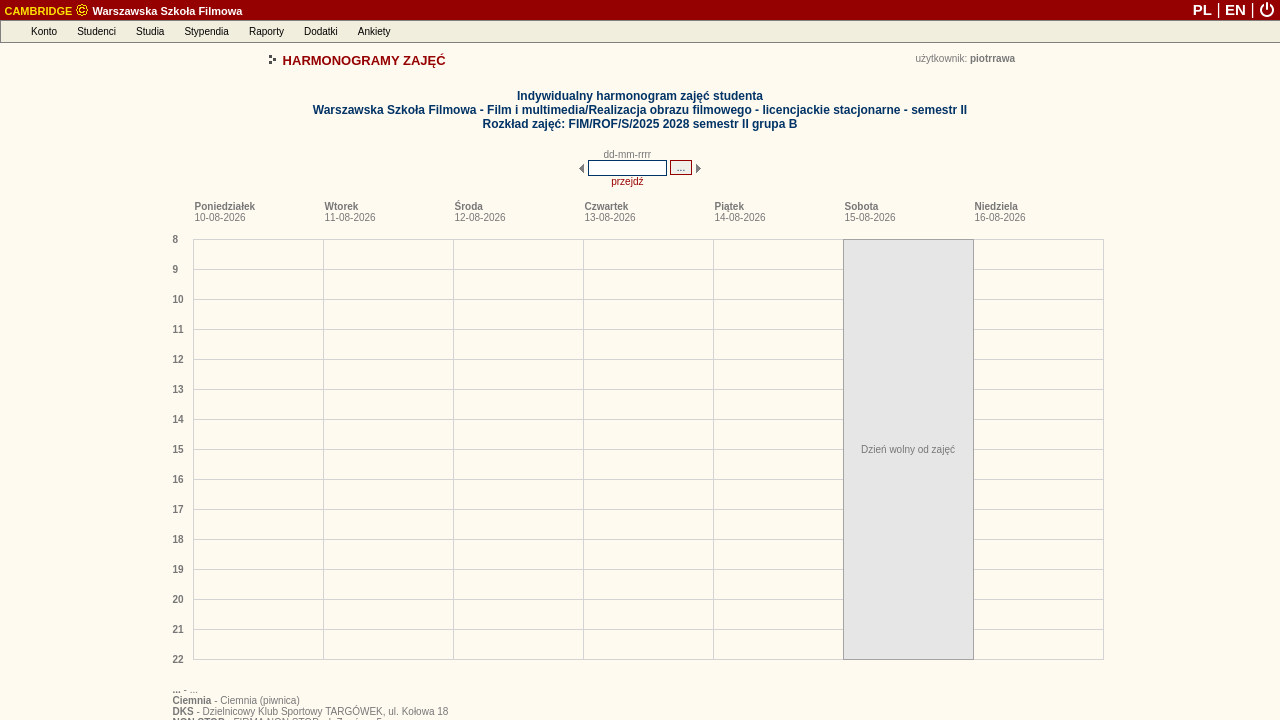
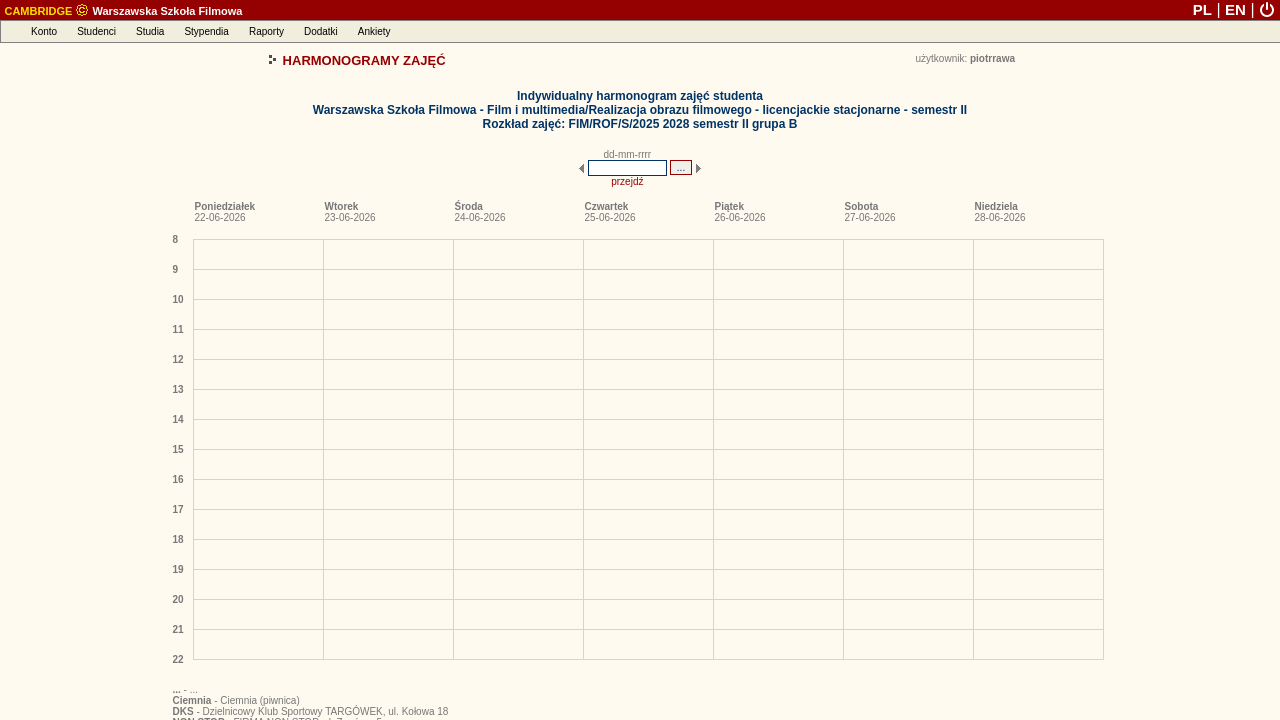
deploy: dfa69d0f82312febb651d8b8e029982c1f68af8a

Changed region(s): [[0.6562, 0.3056, 0.7812, 0.9167]]

diff --git a/debug_harmonogram_page.html b/debug_harmonogram_page.html
@@ -163,8 +163,8 @@
 
 
 
-<link rel="stylesheet" type="text/css" href="/palio/html.run?_Instance=cambridge&amp;_PageID=4&amp;_SessionID=1701767&amp;_SessionKey=920320297&amp;ZoomView=&amp;DisplayMode=&amp;_CheckSum=-103388781">
-<script language="javascript" type="text/javascript" src="/palio/html.run?_Instance=cambridge&amp;_PageID=5&amp;_SessionID=1701767&amp;_SessionKey=920320297&amp;_CheckSum=949591799"></script>
+<link rel="stylesheet" type="text/css" href="/palio/html.run?_Instance=cambridge&amp;_PageID=4&amp;_SessionID=1701815&amp;_SessionKey=1373786062&amp;ZoomView=&amp;DisplayMode=&amp;_CheckSum=1950590704">
+<script language="javascript" type="text/javascript" src="/palio/html.run?_Instance=cambridge&amp;_PageID=5&amp;_SessionID=1701815&amp;_SessionKey=1373786062&amp;_CheckSum=1394534232"></script>
 
 
 
@@ -354,9 +354,9 @@ CambridgeMenuBar = new jsDOMenuBar("absolute", true)
 
 AccountMenu=new jsDOMenu(200, "", "absolute", false);
 
-AccountMenu.addMenuItem(new menuItem("Zmiana hasła", "", "/palio/html.run?_Instance=cambridge&amp;_PageID=11&amp;_SessionID=1701767&amp;_SessionKey=920320297&amp;_CheckSum=-647523482"));
+AccountMenu.addMenuItem(new menuItem("Zmiana hasła", "", "/palio/html.run?_Instance=cambridge&amp;_PageID=11&amp;_SessionID=1701815&amp;_SessionKey=1373786062&amp;_CheckSum=-871399223"));
 
-  AccountMenu.addMenuItem(new menuItem("Komunikator", "", "/palio/html.run?_Instance=cambridge&amp;_PageID=180&amp;_SessionID=1701767&amp;_SessionKey=920320297&amp;_CheckSum=989078059"));
+  AccountMenu.addMenuItem(new menuItem("Komunikator", "", "/palio/html.run?_Instance=cambridge&amp;_PageID=180&amp;_SessionID=1701815&amp;_SessionKey=1373786062&amp;_CheckSum=-1676359004"));
 
 
 
@@ -369,7 +369,7 @@ AccountMenu.addMenuItem(new menuItem("Yammer", "", "https://www.yammer.com/onlin
 
 AccountMenu.addMenuItem(new menuItem("-"));
 
-AccountMenu.addMenuItem(new menuItem("Wylogowanie", "", "https://student.szkolafilmowa.pl/palio/html.run?_Instance=cambridge&amp;_PageID=10012&amp;_Action=Logout&amp;_SessionID=1701767&amp;_SessionKey=920320297"));
+AccountMenu.addMenuItem(new menuItem("Wylogowanie", "", "https://student.szkolafilmowa.pl/palio/html.run?_Instance=cambridge&amp;_PageID=10012&amp;_Action=Logout&amp;_SessionID=1701815&amp;_SessionKey=1373786062"));
 
 CambridgeMenuBar.addMenuBarItem(new menuBarItem("Konto", AccountMenu));
 
@@ -382,12 +382,12 @@ StudentsMenu=new jsDOMenu(320, "", "absolute", false);
 
 
 
-StudentsMenu.addMenuItem(new menuItem("Moje dane", "", "/palio/html.run?_Instance=cambridge&amp;_PageID=185&amp;_SessionID=1701767&amp;_SessionKey=920320297&amp;_CheckSum=-153596112"));
+StudentsMenu.addMenuItem(new menuItem("Moje dane", "", "/palio/html.run?_Instance=cambridge&amp;_PageID=185&amp;_SessionID=1701815&amp;_SessionKey=1373786062&amp;_CheckSum=1555447359"));
 
 
 
 
-StudentsMenu.addMenuItem(new menuItem("Moje indeksy", "", "/palio/html.run?_Instance=cambridge&amp;_PageID=186&amp;_SessionID=1701767&amp;_SessionKey=920320297&amp;_CheckSum=476862513"));
+StudentsMenu.addMenuItem(new menuItem("Moje indeksy", "", "/palio/html.run?_Instance=cambridge&amp;_PageID=186&amp;_SessionID=1701815&amp;_SessionKey=1373786062&amp;_CheckSum=-375171746"));
 
 
 
@@ -426,7 +426,7 @@ StudiesMenu=new jsDOMenu(250, "", "absolute", false);
 
 
 
-StudiesMenu.addMenuItem(new menuItem("Moje plany studiów", "", "/palio/html.run?_Instance=cambridge&amp;_PageID=258&amp;_SessionID=1701767&amp;_SessionKey=920320297&amp;_CheckSum=-779947625"));
+StudiesMenu.addMenuItem(new menuItem("Moje plany studiów", "", "/palio/html.run?_Instance=cambridge&amp;_PageID=258&amp;_SessionID=1701815&amp;_SessionKey=1373786062&amp;_CheckSum=-681580360"));
 
 
 
@@ -434,13 +434,13 @@ StudiesMenu.addMenuItem(new menuItem("Moje plany studiów", "", "/palio/html.run
 
 
 
-StudiesMenu.addMenuItem(new menuItem("Harmonogramy zajęć", "", "/palio/html.run?_Instance=cambridge&amp;_PageID=95&amp;_SessionID=1701767&amp;_SessionKey=920320297&amp;_CheckSum=-685739934"));
+StudiesMenu.addMenuItem(new menuItem("Harmonogramy zajęć", "", "/palio/html.run?_Instance=cambridge&amp;_PageID=95&amp;_SessionID=1701815&amp;_SessionKey=1373786062&amp;_CheckSum=-2056109235"));
 
-StudiesMenu.addMenuItem(new menuItem("Harmonogramy moich zajęć", "", "/palio/html.run?_Instance=cambridge&amp;_PageID=191&amp;_SessionID=1701767&amp;_SessionKey=920320297&amp;_CheckSum=-311082421"));
+StudiesMenu.addMenuItem(new menuItem("Harmonogramy moich zajęć", "", "/palio/html.run?_Instance=cambridge&amp;_PageID=191&amp;_SessionID=1701815&amp;_SessionKey=1373786062&amp;_CheckSum=968339076"));
 
-StudiesMenu.addMenuItem(new menuItem("Harmonogramy innych zajęć", "", "/palio/html.run?_Instance=cambridge&amp;_PageID=248&amp;_SessionID=1701767&amp;_SessionKey=920320297&amp;_CheckSum=1150671480"));
+StudiesMenu.addMenuItem(new menuItem("Harmonogramy innych zajęć", "", "/palio/html.run?_Instance=cambridge&amp;_PageID=248&amp;_SessionID=1701815&amp;_SessionKey=1373786062&amp;_CheckSum=-961930249"));
 
-StudiesMenu.addMenuItem(new menuItem("Harmonogramy zajętości sal", "", "/palio/html.run?_Instance=cambridge&amp;_PageID=269&amp;_SessionID=1701767&amp;_SessionKey=920320297&amp;_CheckSum=-2080108105"));
+StudiesMenu.addMenuItem(new menuItem("Harmonogramy zajętości sal", "", "/palio/html.run?_Instance=cambridge&amp;_PageID=269&amp;_SessionID=1701815&amp;_SessionKey=1373786062&amp;_CheckSum=1963117720"));
 
 
 
@@ -470,9 +470,9 @@ CambridgeMenuBar.addMenuBarItem(new menuBarItem("Studia", StudiesMenu));
 ScholarshipsMenu=new jsDOMenu(230, "", "absolute", false);
 
 
-ScholarshipsMenu.addMenuItem(new menuItem("Moje stypendia", "", "/palio/html.run?_Instance=cambridge&amp;_PageID=187&amp;_SessionID=1701767&amp;_SessionKey=920320297&amp;_CheckSum=1107321138"));
+ScholarshipsMenu.addMenuItem(new menuItem("Moje stypendia", "", "/palio/html.run?_Instance=cambridge&amp;_PageID=187&amp;_SessionID=1701815&amp;_SessionKey=1373786062&amp;_CheckSum=1989176445"));
 
-ScholarshipsMenu.addMenuItem(new menuItem("Mój numer rachunku", "", "/palio/html.run?_Instance=cambridge&amp;_PageID=380&amp;_SessionID=1701767&amp;_SessionKey=920320297&amp;_CheckSum=1549777837"));
+ScholarshipsMenu.addMenuItem(new menuItem("Mój numer rachunku", "", "/palio/html.run?_Instance=cambridge&amp;_PageID=380&amp;_SessionID=1701815&amp;_SessionKey=1373786062&amp;_CheckSum=-1474535070"));
 
 
 
@@ -482,9 +482,9 @@ ScholarshipsMenu.addMenuItem(new menuItem("Mój numer rachunku", "", "/palio/htm
 ScholarshipsMenu.addMenuItem(new menuItem("-"));
 
 
-ScholarshipsMenu.addMenuItem(new menuItem("Fundusze stypendialne", "", "/palio/html.run?_Instance=cambridge&amp;_PageID=54&amp;_SessionID=1701767&amp;_SessionKey=920320297&amp;_CheckSum=2111310565"));
+ScholarshipsMenu.addMenuItem(new menuItem("Fundusze stypendialne", "", "/palio/html.run?_Instance=cambridge&amp;_PageID=54&amp;_SessionID=1701815&amp;_SessionKey=1373786062&amp;_CheckSum=-1246889686"));
 
-ScholarshipsMenu.addMenuItem(new menuItem("Rodzaje stypendiów", "", "/palio/html.run?_Instance=cambridge&amp;_PageID=55&amp;_SessionID=1701767&amp;_SessionKey=920320297&amp;_CheckSum=-1553198106"));
+ScholarshipsMenu.addMenuItem(new menuItem("Rodzaje stypendiów", "", "/palio/html.run?_Instance=cambridge&amp;_PageID=55&amp;_SessionID=1701815&amp;_SessionKey=1373786062&amp;_CheckSum=1117458505"));
 
 
 
@@ -495,7 +495,7 @@ CambridgeMenuBar.addMenuBarItem(new menuBarItem("Stypendia", ScholarshipsMenu));
 ReportsMenu=new jsDOMenu(200, "", "absolute", false);
 
 
-ReportsMenu.addMenuItem(new menuItem("Generowanie raportów", "", "/palio/html.run?_Instance=cambridge&amp;_PageID=68&amp;_SessionID=1701767&amp;_SessionKey=920320297&amp;_CheckSum=-1592441336"));
+ReportsMenu.addMenuItem(new menuItem("Generowanie raportów", "", "/palio/html.run?_Instance=cambridge&amp;_PageID=68&amp;_SessionID=1701815&amp;_SessionKey=1373786062&amp;_CheckSum=-99081625"));
 
 
 
@@ -505,7 +505,7 @@ CambridgeMenuBar.addMenuBarItem(new menuBarItem("Raporty", ReportsMenu));
 
 AdditionalsMenu=new jsDOMenu(200, "", "absolute", false);
 
-AdditionalsMenu.addMenuItem(new menuItem("Forum internetowe", "", "/palio/html.run?_Instance=cambridge&amp;_PageID=8001&amp;_SessionID=1701767&amp;_SessionKey=920320297&amp;_CheckSum=-92406593"));
+AdditionalsMenu.addMenuItem(new menuItem("Forum internetowe", "", "/palio/html.run?_Instance=cambridge&amp;_PageID=8001&amp;_SessionID=1701815&amp;_SessionKey=1373786062&amp;_CheckSum=-842644848"));
 
 
 
@@ -539,7 +539,7 @@ PollsMenu=new jsDOMenu(225, "", "absolute", false);
 
 
 
-PollsMenu.addMenuItem(new menuItem("Wypełnianie ankiet", "", "/palio/html.run?_Instance=cambridge&amp;_PageID=227&amp;_SessionID=1701767&amp;_SessionKey=920320297&amp;_CheckSum=86483769"));
+PollsMenu.addMenuItem(new menuItem("Wypełnianie ankiet", "", "/palio/html.run?_Instance=cambridge&amp;_PageID=227&amp;_SessionID=1701815&amp;_SessionKey=1373786062&amp;_CheckSum=407989078"));
 
 
 CambridgeMenuBar.addMenuBarItem(new menuBarItem("Ankiety", PollsMenu));
@@ -576,7 +576,7 @@ CambridgeMenuBar.moveTo(0,20);
 <table width="100%" border="0" cellspacing="0" cellpadding="0" align="center">
 <tbody><tr class="top_belt">
 
-<td align="left" height="20"><b>&nbsp;<a class="belt" href="/palio/html.run?_Instance=cambridge&amp;_PageID=6&amp;_SessionID=1701767&amp;_SessionKey=920320297&amp;_CheckSum=1580050424"><span class="belt_application">CAMBRIDGE</span> <img src="/palio/html.media?_Instance=cambridge&amp;_Option=Palio&amp;_ID=51&amp;_CheckSum=684598873" width="14" height="14" border="0" style="position:relative;top:-2px;vertical-align:bottom"> Warszawska Szkoła Filmowa</a></b></td>
+<td align="left" height="20"><b>&nbsp;<a class="belt" href="/palio/html.run?_Instance=cambridge&amp;_PageID=6&amp;_SessionID=1701815&amp;_SessionKey=1373786062&amp;_CheckSum=-536084873"><span class="belt_application">CAMBRIDGE</span> <img src="/palio/html.media?_Instance=cambridge&amp;_Option=Palio&amp;_ID=51&amp;_CheckSum=684598873" width="14" height="14" border="0" style="position:relative;top:-2px;vertical-align:bottom"> Warszawska Szkoła Filmowa</a></b></td>
 <td align="right">
 
 
@@ -587,13 +587,13 @@ CambridgeMenuBar.moveTo(0,20);
 
 
 
-<a href="/palio/html.run?_Instance=cambridge&amp;_PageID=6&amp;_SessionID=1701767&amp;_SessionKey=920320297&amp;SetLanguage=pl&amp;_CheckSum=-1294734558" class="belt" style="font-size:15px;line-height:18px;text-decoration:none" title="polski"><b>PL</b></a>
+<a href="/palio/html.run?_Instance=cambridge&amp;_PageID=6&amp;_SessionID=1701815&amp;_SessionKey=1373786062&amp;SetLanguage=pl&amp;_CheckSum=-1081921981" class="belt" style="font-size:15px;line-height:18px;text-decoration:none" title="polski"><b>PL</b></a>
 <span class="belt" style="font-size:16px">|</span>
-<a href="/palio/html.run?_Instance=cambridge&amp;_PageID=6&amp;_SessionID=1701767&amp;_SessionKey=920320297&amp;SetLanguage=en&amp;_CheckSum=598048725" class="belt" style="font-size:15px;line-height:18px;text-decoration:none" title="english"><b>EN</b></a>
+<a href="/palio/html.run?_Instance=cambridge&amp;_PageID=6&amp;_SessionID=1701815&amp;_SessionKey=1373786062&amp;SetLanguage=en&amp;_CheckSum=810861302" class="belt" style="font-size:15px;line-height:18px;text-decoration:none" title="english"><b>EN</b></a>
 <span class="belt" style="font-size:16px">|</span>
 
 
-<img src="/palio/html.media?_Instance=cambridge&amp;_Option=Palio&amp;_ID=94&amp;_CheckSum=-1316787974" style="cursor:pointer;vertical-align:bottom;margin-bottom:2px;margin-right:5px" alt="Wyloguj" title="Wyloguj" onclick="if(confirm('Czy na pewno chcesz się wylogować?'))window.location='https://student.szkolafilmowa.pl/palio/html.run?_Instance=cambridge&amp;_PageID=10012&amp;_Action=Logout&amp;_SessionID=1701767&amp;_SessionKey=920320297'">
+<img src="/palio/html.media?_Instance=cambridge&amp;_Option=Palio&amp;_ID=94&amp;_CheckSum=-1316787974" style="cursor:pointer;vertical-align:bottom;margin-bottom:2px;margin-right:5px" alt="Wyloguj" title="Wyloguj" onclick="if(confirm('Czy na pewno chcesz się wylogować?'))window.location='https://student.szkolafilmowa.pl/palio/html.run?_Instance=cambridge&amp;_PageID=10012&amp;_Action=Logout&amp;_SessionID=1701815&amp;_SessionKey=1373786062'">
 </td>
 
 </tr>
@@ -2321,16 +2321,16 @@ document.schedule_scroll_form.submit();
 }
 function goForward()
 {
-document.schedule_scroll_form._firstDayOfWeek.value = '17-08-2026';
+document.schedule_scroll_form._firstDayOfWeek.value = '29-06-2026';
 document.schedule_scroll_form.submit();
 }
 function goBackward()
 {
-document.schedule_scroll_form._firstDayOfWeek.value = '08-08-2026';
+document.schedule_scroll_form._firstDayOfWeek.value = '20-06-2026';
 document.schedule_scroll_form.submit();
 }
 </script>
-<form method="post" name="schedule_scroll_form" id="schedule_scroll_form" action="/palio/html.run?_Instance=cambridge&amp;_PageID=191&amp;_SessionID=1701767&amp;_SessionKey=920320297&amp;_RowID=6987&amp;_RowIDType=I&amp;_CheckSum=-611447650" onsubmit="return checkFrm_schedule_scroll_form(this)">
+<form method="post" name="schedule_scroll_form" id="schedule_scroll_form" action="/palio/html.run?_Instance=cambridge&amp;_PageID=191&amp;_SessionID=1701815&amp;_SessionKey=1373786062&amp;_RowID=6987&amp;_RowIDType=I&amp;_CheckSum=-1571042427" onsubmit="return checkFrm_schedule_scroll_form(this)">
 <div style="display:none;"><input type="hidden" name="_formSubmitted" value="yes"></div>
 <input type="hidden" name="_firstDayOfWeek">
 <table cellspacing="0" cellpadding="0" border="0" align="center">
@@ -3110,22 +3110,6 @@ return true;
 
 
 
-
-
-
-
-
-
-
-
-
-
-
-
-
-
-
-
 <br>
 
 
@@ -3137,9 +3121,6 @@ return true;
 
 
 
- 
- 
- 
 
 
 
@@ -3192,52 +3173,6 @@ return true;
 
 
 
-
-
-
-
-
-
-
-
-
-
-
-
-
-
-
-
-
-
-
-
-
-
-
-
-
-
-
-
-
-
-
-
-
-
-
-
-
-
-
-
-
-
-
-
-
-  
 
 
 
@@ -3696,7 +3631,7 @@ tipDivElement.style.visibility="hidden"
 <tbody><tr><td class="font">
 <b class="font">Poniedziałek</b><br>
 
-<span class="font">10-08-2026</span>
+<span class="font">22-06-2026</span>
 </td></tr>
 </tbody></table>
 </div>
@@ -3711,7 +3646,7 @@ tipDivElement.style.visibility="hidden"
 <tbody><tr><td class="font">
 <b class="font">Wtorek</b><br>
 
-<span class="font">11-08-2026</span>
+<span class="font">23-06-2026</span>
 </td></tr>
 </tbody></table>
 </div>
@@ -3726,7 +3661,7 @@ tipDivElement.style.visibility="hidden"
 <tbody><tr><td class="font">
 <b class="font">Środa</b><br>
 
-<span class="font">12-08-2026</span>
+<span class="font">24-06-2026</span>
 </td></tr>
 </tbody></table>
 </div>
@@ -3741,7 +3676,7 @@ tipDivElement.style.visibility="hidden"
 <tbody><tr><td class="font">
 <b class="font">Czwartek</b><br>
 
-<span class="font">13-08-2026</span>
+<span class="font">25-06-2026</span>
 </td></tr>
 </tbody></table>
 </div>
@@ -3756,7 +3691,7 @@ tipDivElement.style.visibility="hidden"
 <tbody><tr><td class="font">
 <b class="font">Piątek</b><br>
 
-<span class="font">14-08-2026</span>
+<span class="font">26-06-2026</span>
 </td></tr>
 </tbody></table>
 </div>
@@ -3771,7 +3706,7 @@ tipDivElement.style.visibility="hidden"
 <tbody><tr><td class="font">
 <b class="font">Sobota</b><br>
 
-<span class="font">15-08-2026</span>
+<span class="font">27-06-2026</span>
 </td></tr>
 </tbody></table>
 </div>
@@ -3786,7 +3721,7 @@ tipDivElement.style.visibility="hidden"
 <tbody><tr><td class="font">
 <b class="font">Niedziela</b><br>
 
-<span class="font">16-08-2026</span>
+<span class="font">28-06-2026</span>
 </td></tr>
 </tbody></table>
 </div>
@@ -3795,34 +3730,6 @@ tipDivElement.style.visibility="hidden"
 
 
 
-
-
-
-
-
-
-
-
-
-
-
-
-
-
-<div style="
-position:absolute;
-top:0;
-left:670;
-width:129;
-height:419.00;
-layer-background-color:#E6E6E6;
-background-color:#E6E6E6;
-border:1px solid #A4A4A4;
-z-index:0;">
-<table cellspacing="0" cellpadding="0" align="center" width="129">
-<tbody><tr><td width="129" align="center" class="font" valign="middle" height="419.00">Dzień wolny od zajęć</td></tr>
-</tbody></table>
-</div>
 
 
 </div>
@@ -3849,8 +3756,8 @@ z-index:0;">
 <td align="right">
 <table cellspacing="0" cellpadding="2" border="0">
 <tbody><tr>
-<td valign="middle"><a class="link" href="/palio/html.run?_Instance=cambridge&amp;_PageID=96&amp;_SessionID=1701767&amp;_SessionKey=920320297&amp;_RowID=6987&amp;_RowIDType=I&amp;_firstDayOfWeek=10-08-2026&amp;_CheckSum=574647283" target="_blank">drukuj</a></td>
-<td valign="middle"><a class="link" href="/palio/html.run?_Instance=cambridge&amp;_PageID=96&amp;_SessionID=1701767&amp;_SessionKey=920320297&amp;_RowID=6987&amp;_RowIDType=I&amp;_firstDayOfWeek=10-08-2026&amp;_CheckSum=574647283" target="_blank"><img src="/palio/html.media?_Instance=cambridge&amp;_Option=Palio&amp;_ID=26&amp;_CheckSum=1936112049" awidth="16" height="14" alt="drukuj" title="drukuj" border="0"></a></td>
+<td valign="middle"><a class="link" href="/palio/html.run?_Instance=cambridge&amp;_PageID=96&amp;_SessionID=1701815&amp;_SessionKey=1373786062&amp;_RowID=6987&amp;_RowIDType=I&amp;_firstDayOfWeek=22-06-2026&amp;_CheckSum=585503161" target="_blank">drukuj</a></td>
+<td valign="middle"><a class="link" href="/palio/html.run?_Instance=cambridge&amp;_PageID=96&amp;_SessionID=1701815&amp;_SessionKey=1373786062&amp;_RowID=6987&amp;_RowIDType=I&amp;_firstDayOfWeek=22-06-2026&amp;_CheckSum=585503161" target="_blank"><img src="/palio/html.media?_Instance=cambridge&amp;_Option=Palio&amp;_ID=26&amp;_CheckSum=1936112049" awidth="16" height="14" alt="drukuj" title="drukuj" border="0"></a></td>
 </tr>
 </tbody></table>
 </td>
@@ -3882,7 +3789,7 @@ z-index:0;">
 
 
 
-<input type="button" name="jump_action" value="Powrót do listy harmonogramów zajęć" class="button" onclick="window.location='/palio/html.run?_Instance=cambridge&amp;_PageID=191&amp;_SessionID=1701767&amp;_SessionKey=920320297&amp;_CheckSum=-311082421'">
+<input type="button" name="jump_action" value="Powrót do listy harmonogramów zajęć" class="button" onclick="window.location='/palio/html.run?_Instance=cambridge&amp;_PageID=191&amp;_SessionID=1701815&amp;_SessionKey=1373786062&amp;_CheckSum=968339076'">
 
 
 
@@ -3907,7 +3814,7 @@ z-index:0;">
 grayscaleImagesIE10Plus();
 </script>
 
-<p align="right" class="font"><i style="color:#aaaaaa">Czas generowania strony 81 ms</i></p>
+<p align="right" class="font"><i style="color:#aaaaaa">Czas generowania strony 92 ms</i></p>
 
 
 </body></html>
